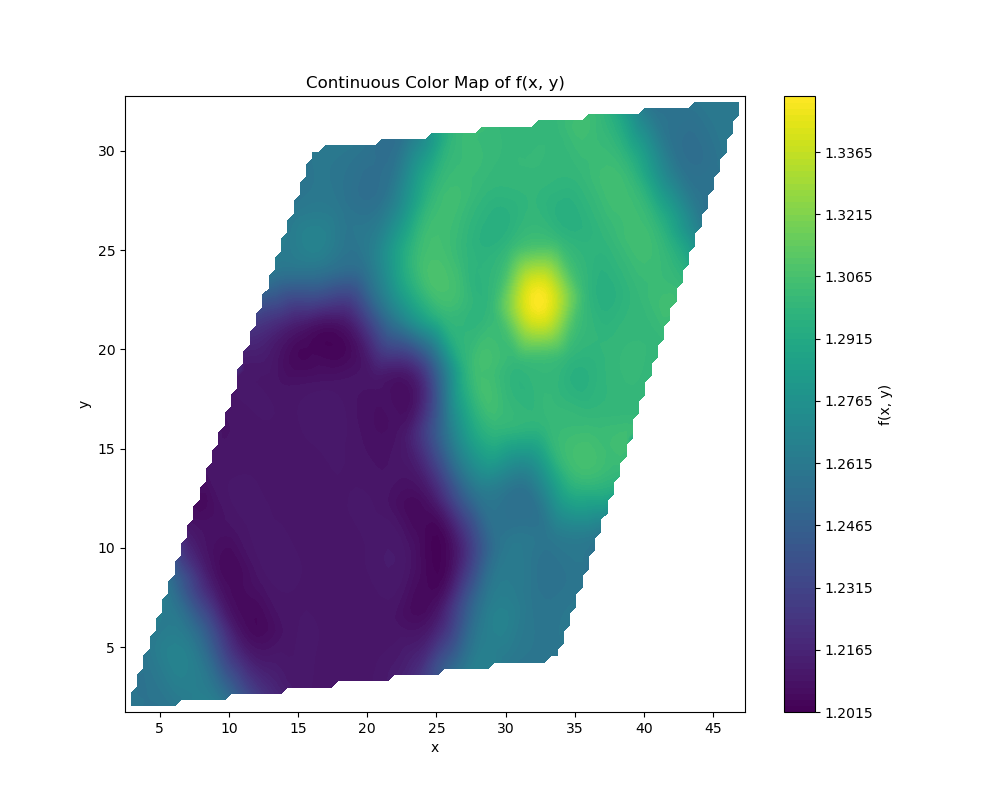
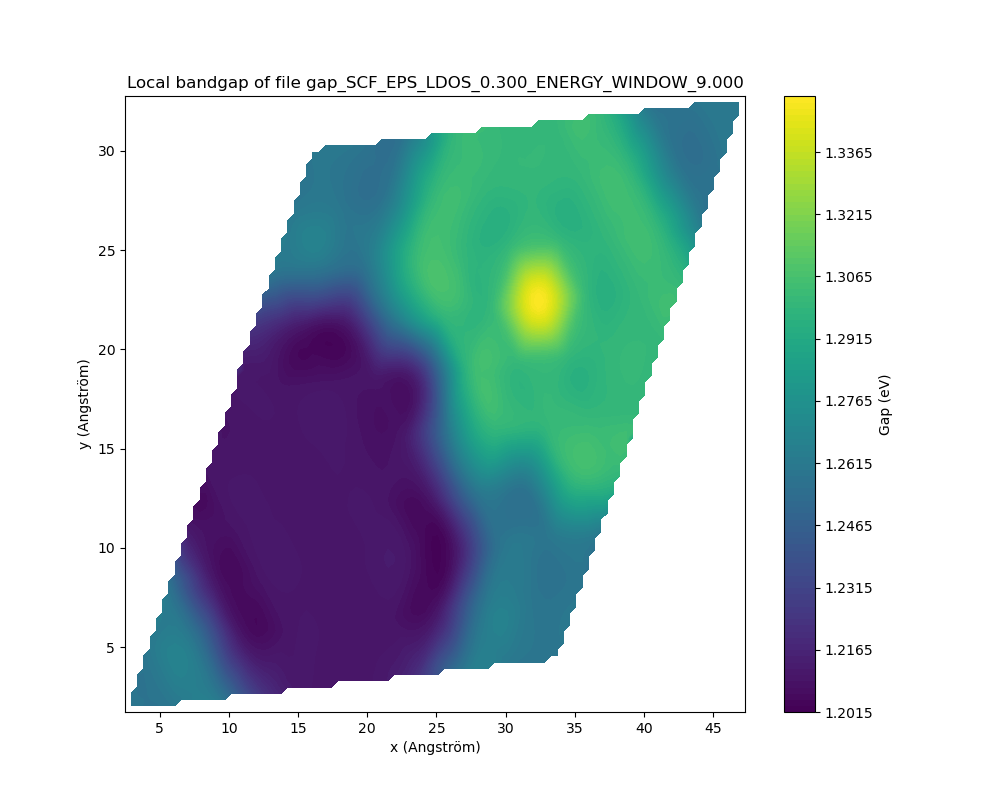
improve plotting

diff --git a/plot_2d_map.py b/plot_2d_map.py
@@ -3,7 +3,8 @@ import matplotlib.pyplot as plt
 
 # Step 1: Read data from the file
 data = []
-with open("gap_SCF_EPS_LDOS_0.300_ENERGY_WINDOW_9.000", "r") as file:
+filename = "gap_SCF_EPS_LDOS_0.300_ENERGY_WINDOW_9.000"
+with open(filename, "r") as file:
     for line in file:
         x, y, f_xy = map(float, line.split())
         data.append((x, y, f_xy))
@@ -31,11 +32,11 @@ contour = plt.contourf(X, Y, f_xy_grid, cmap='viridis', levels=100)
 
 # Add color bar
 cbar = plt.colorbar(contour)
-cbar.set_label('f(x, y)')
+cbar.set_label('Gap (eV)')
 
-plt.xlabel('x')
-plt.ylabel('y')
-plt.title('Continuous Color Map of f(x, y)')
+plt.xlabel('x (Angström)')
+plt.ylabel('y (Angström)')
+plt.title('Local bandgap of file '+filename)
 
 # Specify the file path where you want to save the plot
 output_file = "continuous_color_map.png"
